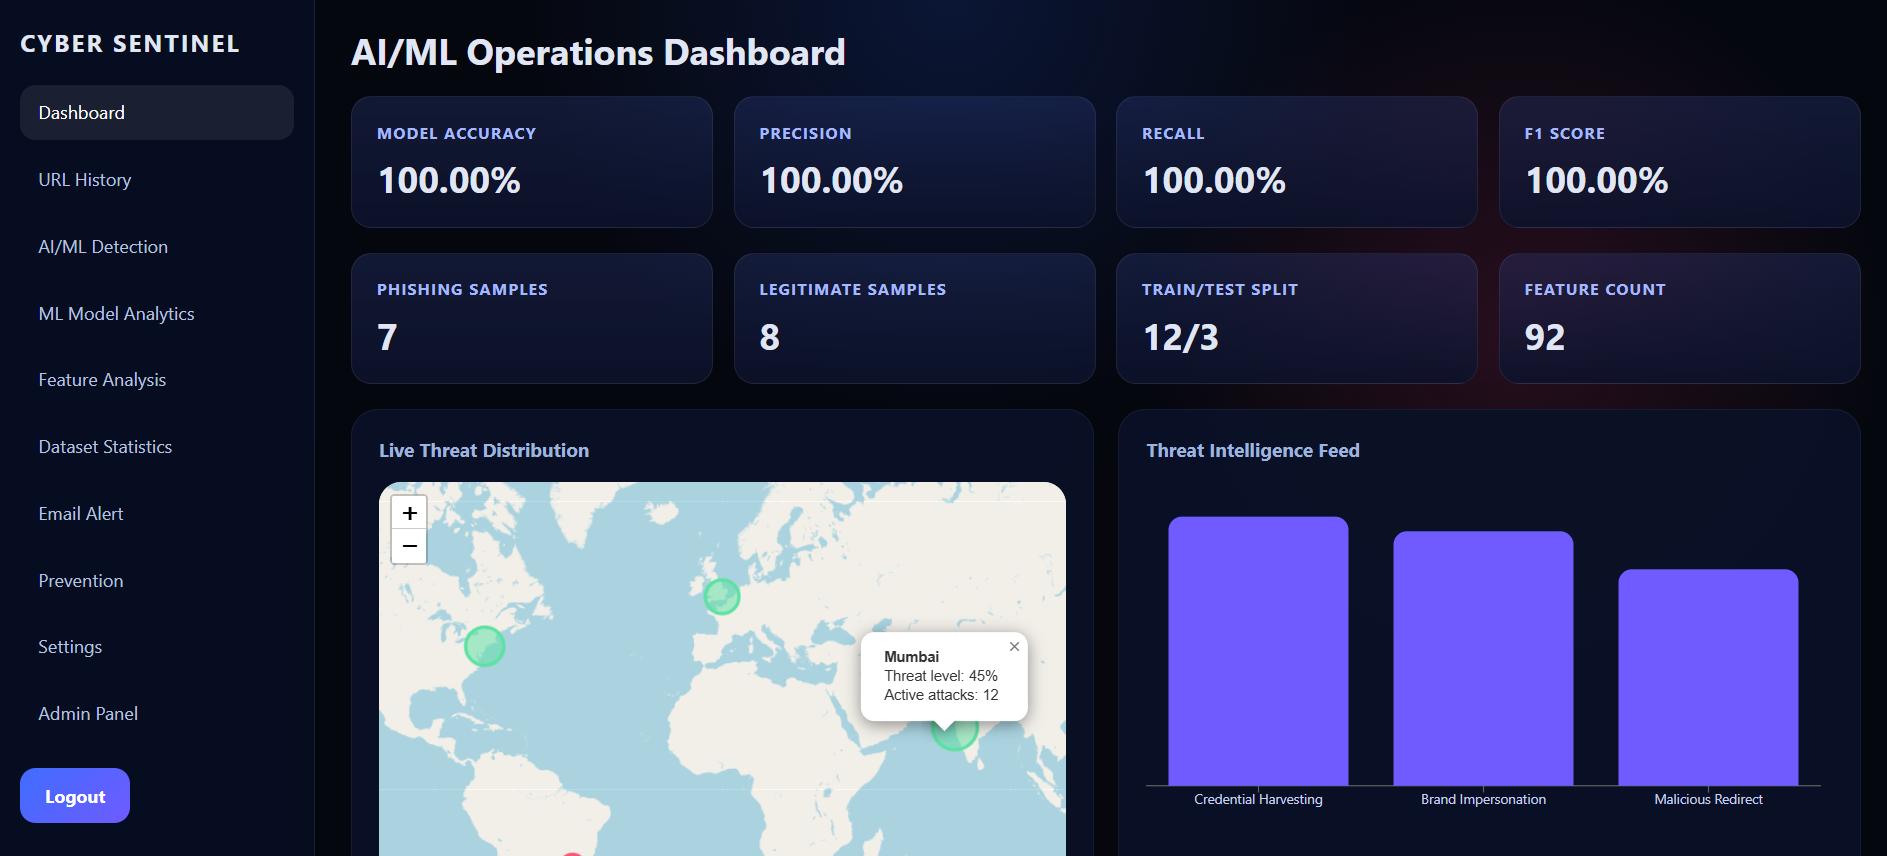
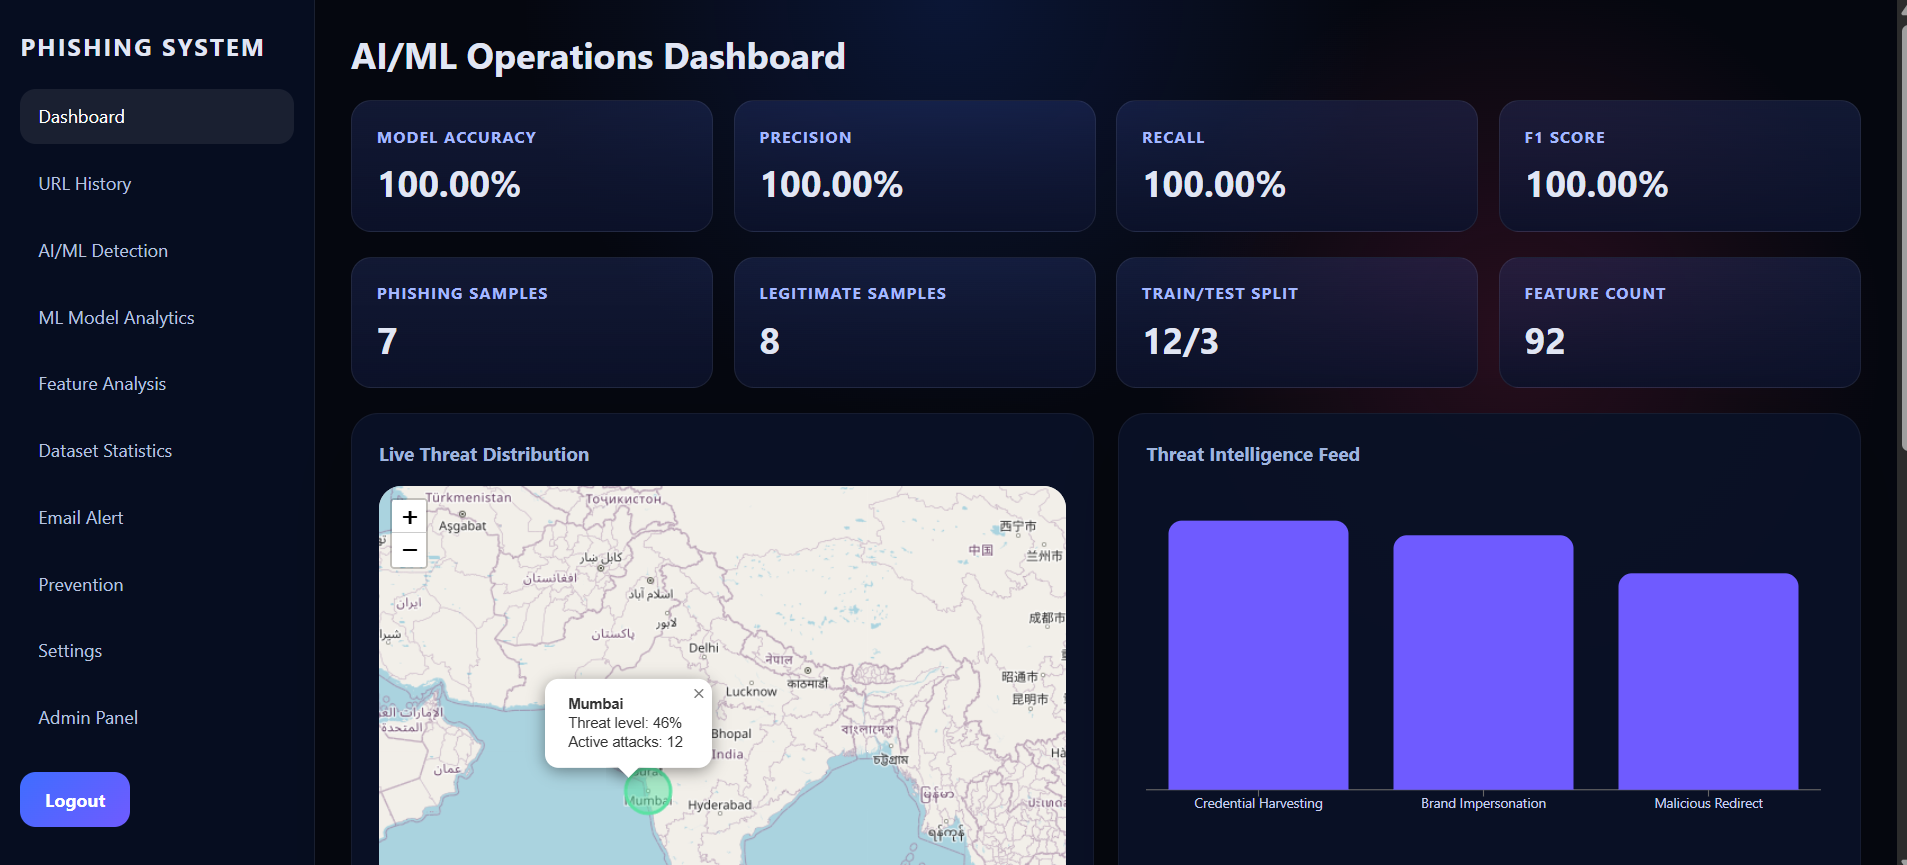
Update Sidebar component and Dashboard screenshot

diff --git a/frontend/src/components/Sidebar.tsx b/frontend/src/components/Sidebar.tsx
@@ -9,7 +9,7 @@ interface SidebarProps {
 const Sidebar = ({ items, authenticated, onLogout }: SidebarProps) => {
   return (
     <aside className="sidebar">
-      <h2>Cyber Sentinel</h2>
+      <h2>Phishing System</h2>
       {items.map((item) => (
         <NavLink
           key={item.path}